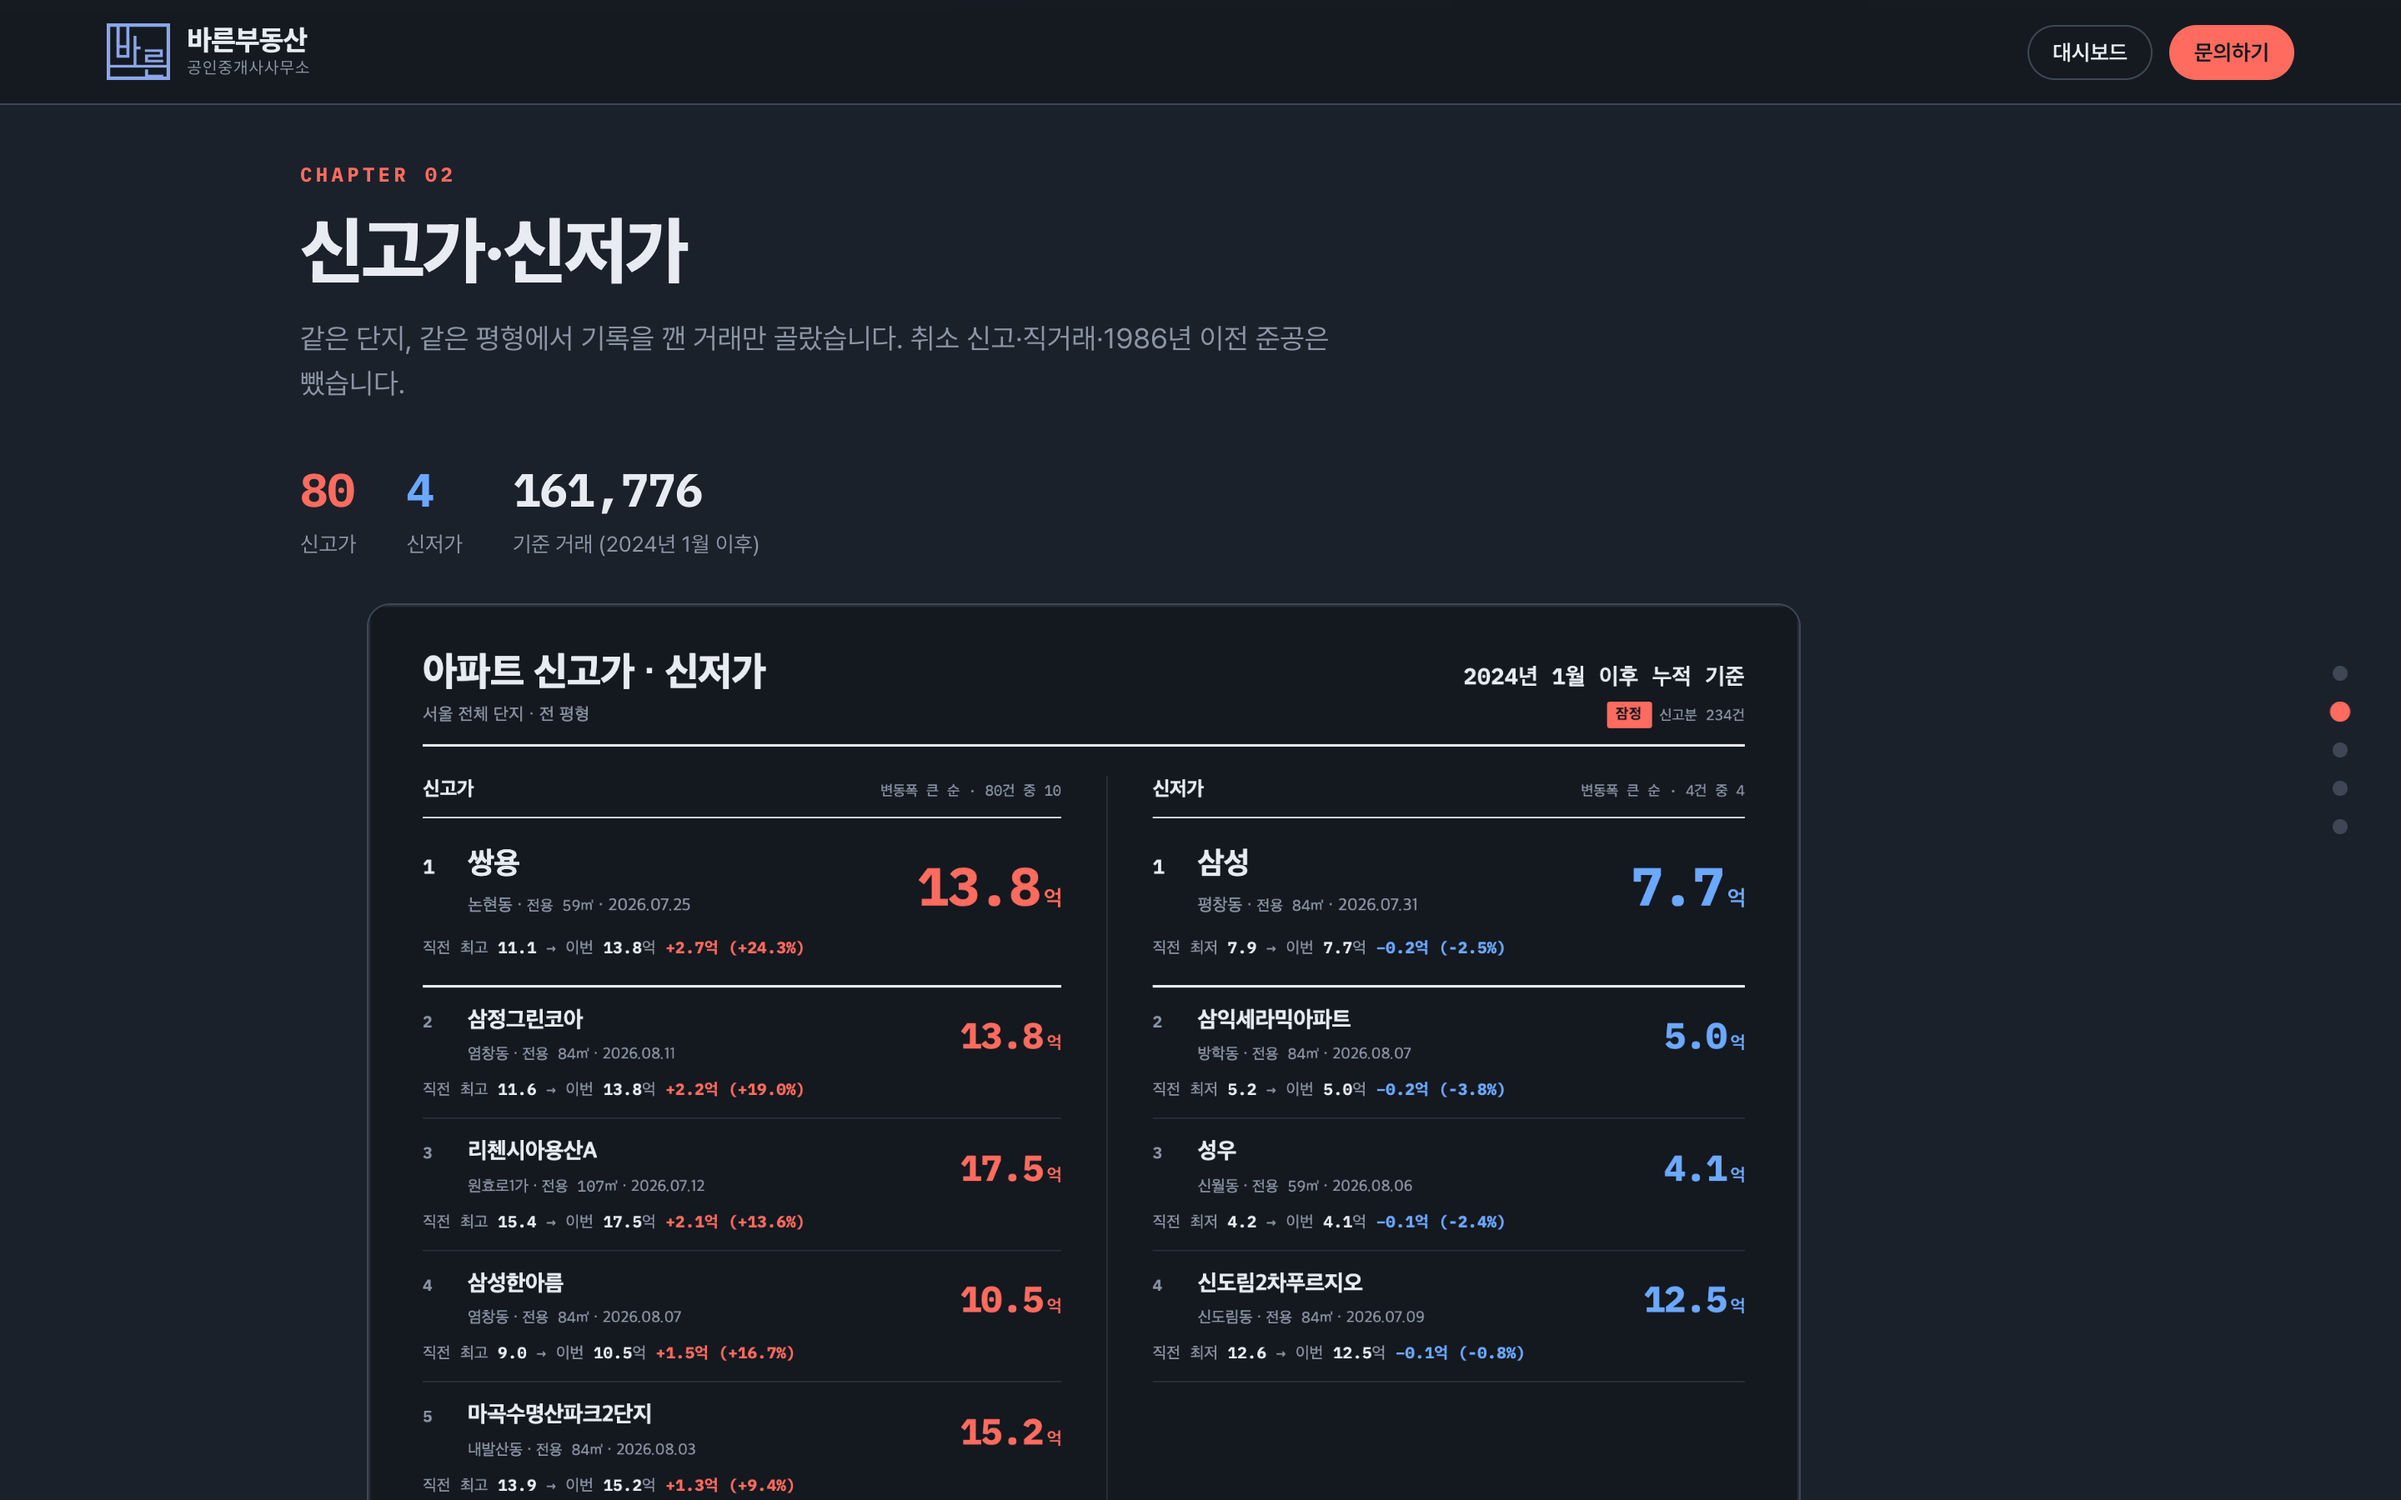
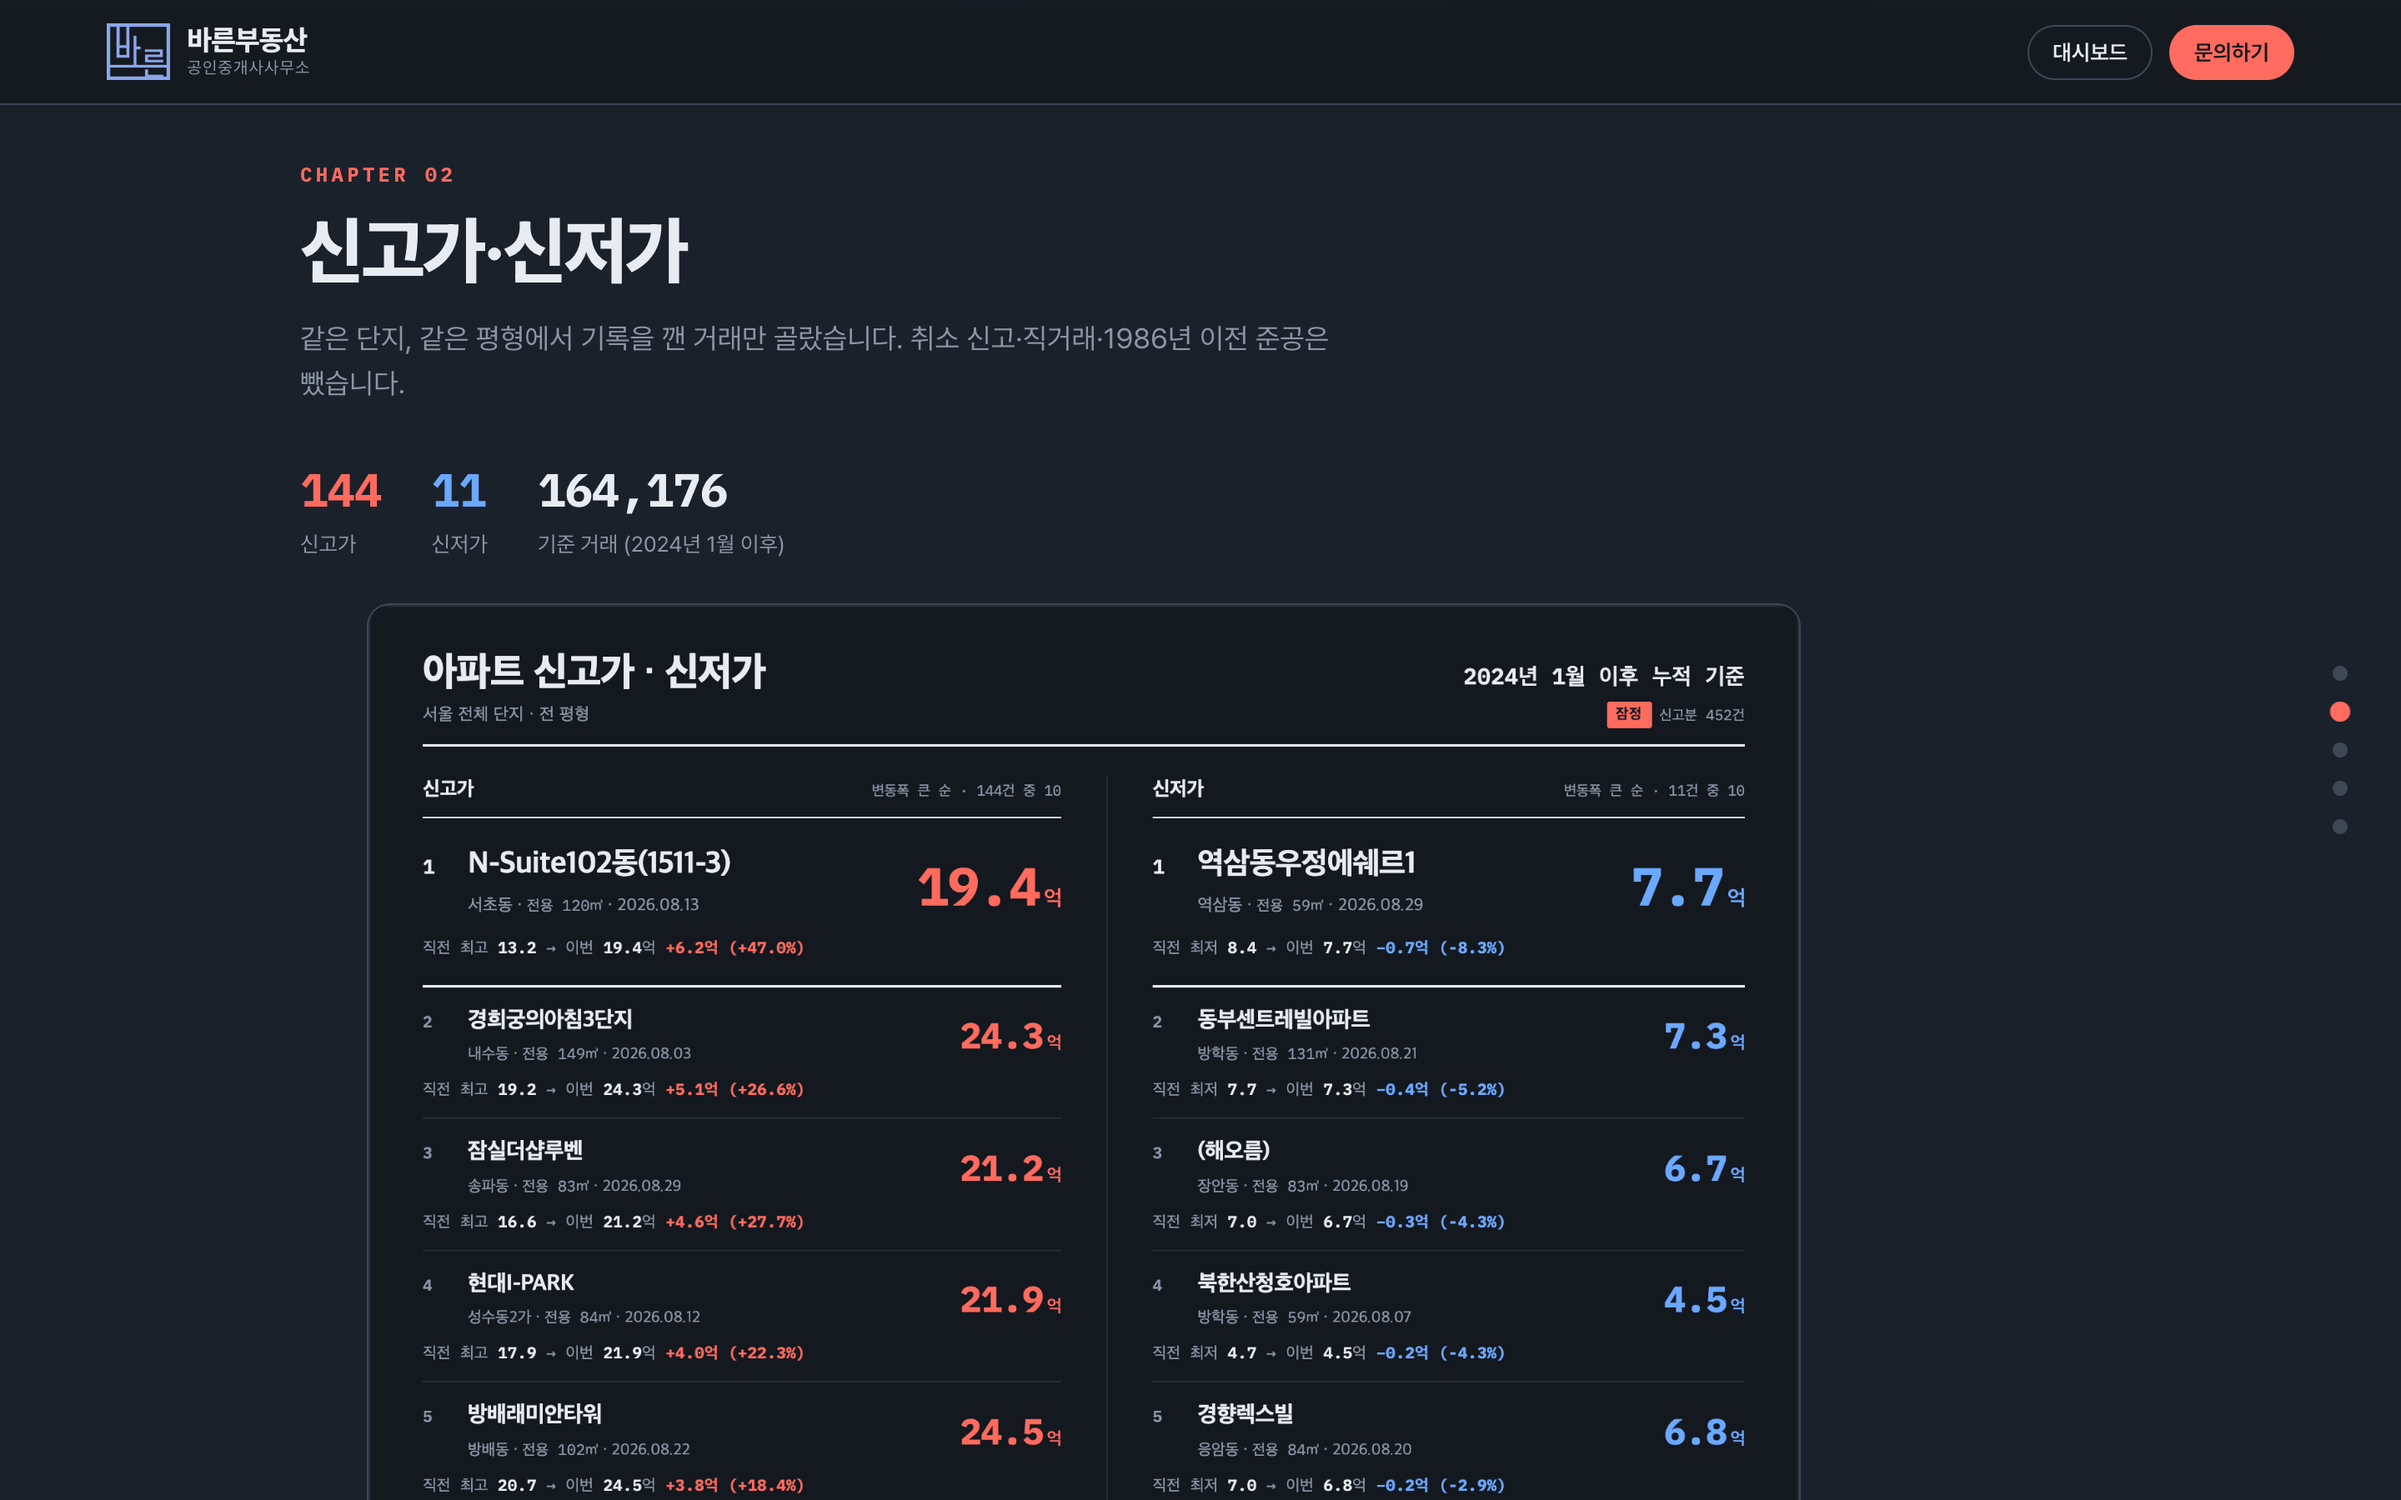
data: 리포트 이미지·숫자를 2026-09-03 수집분으로 갱신
최근 신고분 824건(직전 수집 8/31 대비), 신고가 144 / 신저가 11.

diff --git a/index.html b/index.html
@@ -260,8 +260,8 @@ footer a.mail:hover{text-decoration:underline}
     <div class="inner">
       <p class="hero-kicker">서울 25개 자치구 · 매주 갱신</p>
       <h1 class="hero-h">지금 서울은<br>이렇게 거래되고 있습니다.</h1>
-      <p class="bignum"><span>424</span><em>건</em></p>
-      <p class="hero-sub">최근 신고분 · 수집일 <b class="num">2026-08-13</b> · 국토교통부 RTMS 실거래가</p>
+      <p class="bignum"><span>824</span><em>건</em></p>
+      <p class="hero-sub">최근 신고분 · 수집일 <b class="num">2026-09-03</b> · 국토교통부 RTMS 실거래가</p>
       <div class="hero-cta">
         <a class="btn btn-solid" href="#ch2">리포트 보기</a>
         <a class="btn" href="https://byoneself4023-bit.github.io/seoul-property-dashboard/" target="_blank" rel="noopener">대시보드 열기</a>
@@ -276,9 +276,9 @@ footer a.mail:hover{text-decoration:underline}
       <h2 class="reveal">신고가·신저가</h2>
       <p class="lead reveal">같은 단지, 같은 평형에서 기록을 깬 거래만 골랐습니다. 취소 신고·직거래·1986년 이전 준공은 뺐습니다.</p>
       <ul class="stats reveal">
-        <li class="up"><b class="num">80</b>신고가</li>
-        <li class="down"><b class="num">4</b>신저가</li>
-        <li><b class="num">161,776</b>기준 거래 (2024년 1월 이후)</li>
+        <li class="up"><b class="num">144</b>신고가</li>
+        <li class="down"><b class="num">11</b>신저가</li>
+        <li><b class="num">164,176</b>기준 거래 (2024년 1월 이후)</li>
       </ul>
       <figure class="shot reveal" data-zoom="assets/report/01-records.png">
         <img src="assets/report/01-records.png" alt="아파트 신고가·신저가 리포트" loading="lazy" width="2160" height="2608">
@@ -317,11 +317,11 @@ footer a.mail:hover{text-decoration:underline}
       <h2 class="reveal">아파트 말고</h2>
       <p class="lead reveal">연립·다세대와 오피스텔입니다. 단독·다가구는 건물명과 면적이 없어 비교가 안 되므로 뺐습니다.</p>
       <ul class="stats reveal">
-        <li><b class="num">67,706</b>연립·다세대 거래</li>
-        <li><b class="num">21,801</b>오피스텔 거래</li>
+        <li><b class="num">69,181</b>연립·다세대 거래</li>
+        <li><b class="num">22,184</b>오피스텔 거래</li>
       </ul>
       <figure class="shot reveal" data-zoom="assets/report/03-nonapt.png">
-        <img src="assets/report/03-nonapt.png" alt="비아파트 리포트" loading="lazy" width="2160" height="2958">
+        <img src="assets/report/03-nonapt.png" alt="비아파트 리포트" loading="lazy" width="2160" height="3156">
         <figcaption>탭하면 확대</figcaption>
       </figure>
     </div>

diff --git a/README.md b/README.md
@@ -7,7 +7,8 @@
 
 - `index.html` — 사이트 전부. CSS·JS 인라인
 - `assets/report/*.png` — 리포트 이미지 5장. seoul-property-dashboard 의
-  `npm run report` 산출물을 복사한 것(2026-08-15 렌더, 2026-08-13 수집분)
+  `npm run report` 산출물을 복사한 것(2026-09-03 수집분).
+  "최근 신고분"은 직전 수집(8/31) 대비 새로 들어온 824건이다
 - `assets/fonts/plex-mono-*.woff2` — 숫자용 IBM Plex Mono. 한글 Pretendard 는 CDN
 
 ## 색
